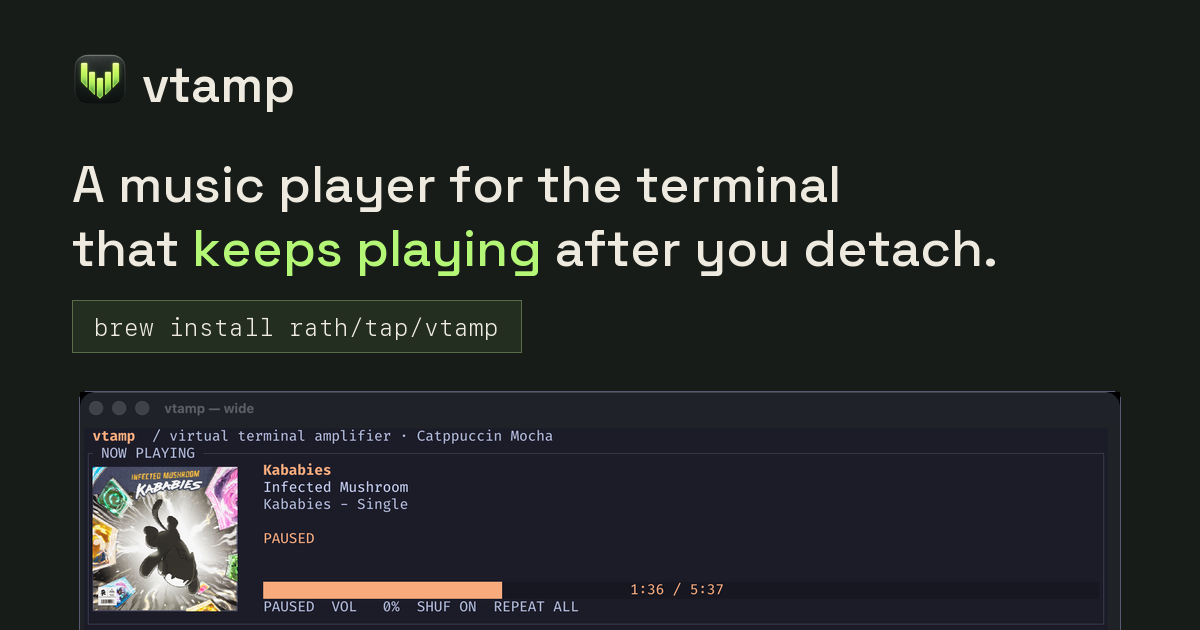
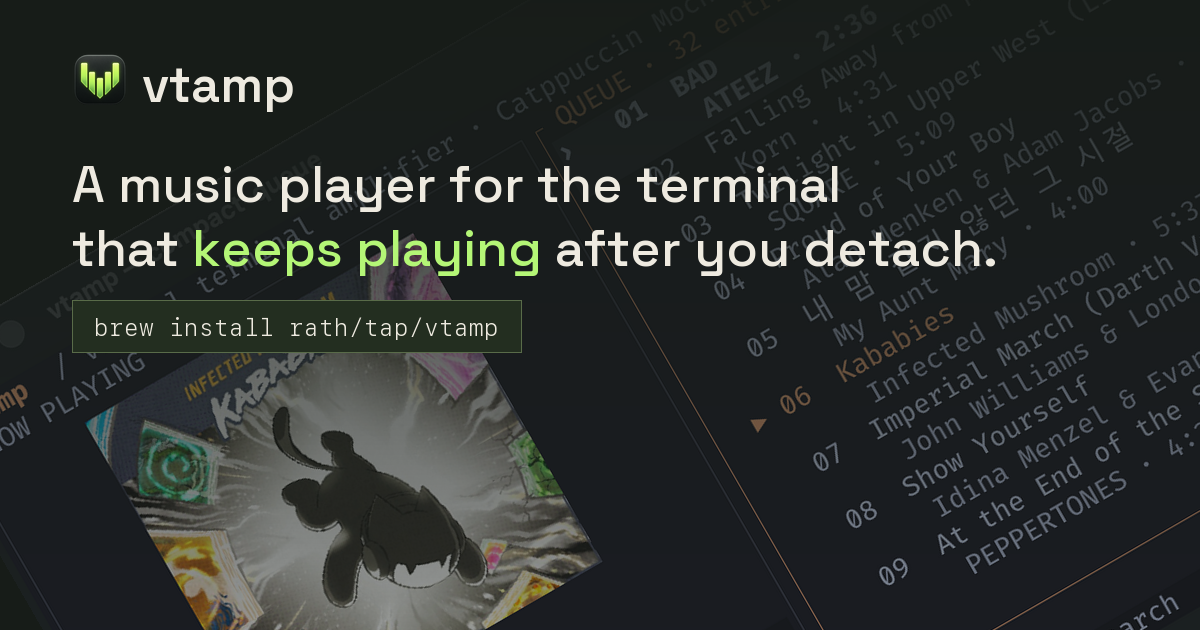
feat(site): redesign the preview cards and add a Korean one
- Lay the compact Queue capture across the card as a backdrop, tilted 30° counter-clockwise and zoomed to 140% under a top-to-bottom scrim
- Keep the wordmark, two-line headline, and Homebrew command chip in the top band
- Add site/og-ko.png with the headline set in the bundled Pretendard Medium, unpacked from WOFF2 with fontTools
- Point the Korean page's og:image and JSON-LD image at og-ko.png
- Check each page against its own card in scripts/test_site_meta.py
- Describe the card composition and build dependencies in DESIGN.md, README, and AGENTS.md

diff --git a/site/ko/index.html b/site/ko/index.html
@@ -5,8 +5,8 @@
 <meta name="description" content="vtamp는 터미널 음악 플레이어입니다. 화면을 닫아도 백그라운드 서버가 재생을 이어 가고, 로컬 음악과 라이브 라디오를 한 큐에서 재생하며, 스크립트와 에이전트를 위한 JSON CLI를 제공합니다. Rust로 만들었고 macOS를 먼저 지원합니다.">
 <title>vtamp · 화면을 닫아도 재생이 멈추지 않는 터미널 음악 플레이어</title>
 <link rel="canonical" href="https://vtamp.told.me/ko/"><link rel="alternate" hreflang="ko" href="https://vtamp.told.me/ko/"><link rel="alternate" hreflang="en" href="https://vtamp.told.me/"><link rel="alternate" hreflang="x-default" href="https://vtamp.told.me/">
-<meta property="og:type" content="website"><meta property="og:site_name" content="vtamp"><meta property="og:locale" content="ko_KR"><meta property="og:locale:alternate" content="en_US"><meta property="og:url" content="https://vtamp.told.me/ko/"><meta property="og:title" content="vtamp · 화면을 닫아도 재생이 멈추지 않는 터미널 음악 플레이어"><meta property="og:description" content="vtamp는 터미널 음악 플레이어입니다. 화면을 닫아도 백그라운드 서버가 재생을 이어 가고, 로컬 음악과 라이브 라디오를 한 큐에서 재생하며, 스크립트와 에이전트를 위한 JSON CLI를 제공합니다. Rust로 만들었고 macOS를 먼저 지원합니다."><meta property="og:image" content="https://vtamp.told.me/og.png"><meta property="og:image:type" content="image/png"><meta property="og:image:width" content="1200"><meta property="og:image:height" content="630"><meta property="og:image:alt" content="vtamp: 화면을 닫아도 재생이 멈추지 않는 터미널 음악 플레이어. Homebrew 설치 명령 아래에 앨범 아트와 현재 곡이 보이는 터미널 스크린샷."><meta name="twitter:card" content="summary_large_image">
-<script type="application/ld+json">{"@context":"https://schema.org","@type":"SoftwareApplication","name":"vtamp","url":"https://vtamp.told.me/ko/","inLanguage":"ko","description":"vtamp는 터미널 음악 플레이어입니다. 화면을 닫아도 백그라운드 서버가 재생을 이어 가고, 로컬 음악과 라이브 라디오를 한 큐에서 재생하며, 스크립트와 에이전트를 위한 JSON CLI를 제공합니다. Rust로 만들었고 macOS를 먼저 지원합니다.","applicationCategory":"MultimediaApplication","operatingSystem":"macOS","softwareVersion":"0.1.0","license":"https://github.com/rath/vtamp/blob/main/LICENSE","isAccessibleForFree":true,"offers":{"@type":"Offer","price":"0","priceCurrency":"USD"},"image":"https://vtamp.told.me/og.png","screenshot":"https://vtamp.told.me/screenshots/wide.png","downloadUrl":"https://github.com/rath/vtamp/releases/latest","installUrl":"https://vtamp.told.me/ko/#install","sameAs":["https://github.com/rath/vtamp"],"author":{"@type":"Person","name":"황장호","url":"https://xrath.com"}}</script>
+<meta property="og:type" content="website"><meta property="og:site_name" content="vtamp"><meta property="og:locale" content="ko_KR"><meta property="og:locale:alternate" content="en_US"><meta property="og:url" content="https://vtamp.told.me/ko/"><meta property="og:title" content="vtamp · 화면을 닫아도 재생이 멈추지 않는 터미널 음악 플레이어"><meta property="og:description" content="vtamp는 터미널 음악 플레이어입니다. 화면을 닫아도 백그라운드 서버가 재생을 이어 가고, 로컬 음악과 라이브 라디오를 한 큐에서 재생하며, 스크립트와 에이전트를 위한 JSON CLI를 제공합니다. Rust로 만들었고 macOS를 먼저 지원합니다."><meta property="og:image" content="https://vtamp.told.me/og-ko.png"><meta property="og:image:type" content="image/png"><meta property="og:image:width" content="1200"><meta property="og:image:height" content="630"><meta property="og:image:alt" content="vtamp: 화면을 닫아도 재생이 멈추지 않는 터미널 음악 플레이어. Homebrew 설치 명령 아래에 앨범 아트와 현재 곡이 보이는 터미널 스크린샷."><meta name="twitter:card" content="summary_large_image">
+<script type="application/ld+json">{"@context":"https://schema.org","@type":"SoftwareApplication","name":"vtamp","url":"https://vtamp.told.me/ko/","inLanguage":"ko","description":"vtamp는 터미널 음악 플레이어입니다. 화면을 닫아도 백그라운드 서버가 재생을 이어 가고, 로컬 음악과 라이브 라디오를 한 큐에서 재생하며, 스크립트와 에이전트를 위한 JSON CLI를 제공합니다. Rust로 만들었고 macOS를 먼저 지원합니다.","applicationCategory":"MultimediaApplication","operatingSystem":"macOS","softwareVersion":"0.1.0","license":"https://github.com/rath/vtamp/blob/main/LICENSE","isAccessibleForFree":true,"offers":{"@type":"Offer","price":"0","priceCurrency":"USD"},"image":"https://vtamp.told.me/og-ko.png","screenshot":"https://vtamp.told.me/screenshots/wide.png","downloadUrl":"https://github.com/rath/vtamp/releases/latest","installUrl":"https://vtamp.told.me/ko/#install","sameAs":["https://github.com/rath/vtamp"],"author":{"@type":"Person","name":"황장호","url":"https://xrath.com"}}</script>
 <link rel="icon" type="image/png" sizes="32x32" href="../favicon-32.png"><link rel="icon" type="image/png" sizes="64x64" href="../favicon-64.png"><link rel="apple-touch-icon" sizes="180x180" href="../apple-touch-icon.png"><link rel="preload" href="../fonts/Pretendard-Regular.subset.woff2" as="font" type="font/woff2" crossorigin><link rel="preload" href="../fonts/Pretendard-Medium.subset.woff2" as="font" type="font/woff2" crossorigin><link rel="stylesheet" href="../style.css">
 <script type="application/json" id="strings">{"pauseLabel":"자동 전환 멈추기","playLabel":"자동 전환 시작하기","pause":"일시정지","play":"재생","loading":"스크린샷을 아직 불러오는 중입니다. 잠시 후 다시 시도해 주세요.","unavailable":"스크린샷을 불러올 수 없습니다","unavailableReload":"스크린샷을 불러올 수 없습니다. 페이지를 새로 고쳐 주세요.","copied":"명령을 복사했습니다.","copyFallback":"직접 선택해 복사하세요: "}</script><script src="../app.js" defer></script>
 </head>

diff --git a/scripts/build-og.py b/scripts/build-og.py
@@ -1,57 +1,86 @@
 #!/usr/bin/env python3
-"""Compose the social preview card site/og.png from the wordmark, headline, and wide screenshot (Pillow, macOS SF Mono)."""
+"""Compose the social preview cards site/og.png and site/og-ko.png (Pillow, fontTools, macOS SF Mono)."""
+import io
 from pathlib import Path
 
 from PIL import Image, ImageDraw, ImageFont
 
 ROOT = Path(__file__).resolve().parents[1]
 SITE = ROOT / "site"
-GROTESK = SITE / "fonts" / "SpaceGrotesk.ttf"
+FONTS = SITE / "fonts"
 MONO = Path("/System/Library/Fonts/SFNSMono.ttf")
 WIDTH, HEIGHT, MARGIN = 1200, 630, 72
 # DESIGN.md web palette.
-BG, TEXT, GREEN = "#171c18", "#eeeae0", "#b4f676"
-CHIP, CHIP_LINE, STAGE, STAGE_LINE = "#232e20", "#596b49", "#1e1e2e", "#585b70"
-HEADLINE = [
-    [("A music player for the terminal", TEXT)],
-    [("that ", TEXT), ("keeps playing", GREEN), (" after you detach.", TEXT)],
-]
+BG, TEXT, GREEN, CHIP, CHIP_LINE = "#171c18", "#eeeae0", "#b4f676", "#232e20", "#596b49"
 COMMAND = "brew install rath/tap/vtamp"
+# The compact Queue capture tilts 30° counter-clockwise behind the copy, zoomed past the canvas.
+BACKDROP = SITE / "screenshots" / "compact-queue.png"
+TILT, ZOOM, CENTER = 30, 1.4, (840, 330)
+# Scrim alpha over the backdrop: nearly opaque behind the copy at the top, lighter toward the bottom.
+SCRIM_TOP, SCRIM_BOTTOM = 240, 112
+CARDS = {
+    "og.png": ([("A music player for the terminal", TEXT)], [("that ", TEXT), ("keeps playing", GREEN), (" after you detach.", TEXT)]),
+    "og-ko.png": ([("화면을 닫아도 ", TEXT), ("재생이 멈추지 않는", GREEN)], [("터미널 음악 플레이어.", TEXT)]),
+}
 
 
 def grotesk(size, weight):
-    font = ImageFont.truetype(str(GROTESK), size)
+    font = ImageFont.truetype(str(FONTS / "SpaceGrotesk.ttf"), size)
     font.set_variation_by_axes([weight])
     return font
 
 
-def main():
-    card = Image.new("RGB", (WIDTH, HEIGHT), BG)
+def pretendard(size):
+    # Pillow reads TrueType, not WOFF2, so unpack the bundled Medium subset in memory.
+    from fontTools.ttLib import TTFont
+
+    font = TTFont(FONTS / "Pretendard-Medium.subset.woff2")
+    font.flavor = None
+    buffer = io.BytesIO()
+    font.save(buffer)
+    buffer.seek(0)
+    return ImageFont.truetype(buffer, size)
+
+
+def backdrop():
+    card = Image.new("RGBA", (WIDTH, HEIGHT), BG)
+    shot = Image.open(BACKDROP).convert("RGBA")
+    scale = WIDTH / shot.width * ZOOM
+    shot = shot.resize((round(shot.width * scale), round(shot.height * scale)), Image.LANCZOS)
+    shot = shot.rotate(TILT, resample=Image.BICUBIC, expand=True)
+    card.alpha_composite(shot, (CENTER[0] - shot.width // 2, CENTER[1] - shot.height // 2))
+    ramp = Image.linear_gradient("L").resize((WIDTH, HEIGHT))
+    alpha = ramp.point(lambda value: round(SCRIM_TOP + (SCRIM_BOTTOM - SCRIM_TOP) * value / 255))
+    scrim = Image.new("RGBA", (WIDTH, HEIGHT), BG)
+    scrim.putalpha(alpha)
+    card.alpha_composite(scrim)
+    return card.convert("RGB")
+
+
+def compose(name, headline, font):
+    card = backdrop()
     draw = ImageDraw.Draw(card)
 
     mark = Image.open(SITE / "mark.png").convert("RGBA").resize((56, 56), Image.LANCZOS)
     card.paste(mark, (MARGIN, 52), mark)
     draw.text((MARGIN + 70, 52), "vtamp", font=grotesk(50, 600), fill=TEXT)
 
-    headline = grotesk(52, 500)
-    for row, segments in enumerate(HEADLINE):
+    for row, segments in enumerate(headline):
         x = MARGIN
         for text, color in segments:
-            draw.text((x, 150 + row * 64), text, font=headline, fill=color)
-            x += headline.getlength(text)
+            draw.text((x, 150 + row * 64), text, font=font, fill=color)
+            x += font.getlength(text)
 
     mono = ImageFont.truetype(str(MONO), 24)
     width = mono.getlength(COMMAND) + 44
     draw.rectangle((MARGIN, 300, MARGIN + width, 352), fill=CHIP, outline=CHIP_LINE)
     draw.text((MARGIN + 22, 312), COMMAND, font=mono, fill=TEXT)
+    card.save(SITE / name, optimize=True)
 
-    shot = Image.open(SITE / "screenshots" / "wide.png").convert("RGB")
-    stage_width = WIDTH - 2 * 80
-    shot = shot.resize((stage_width, round(shot.height * stage_width / shot.width)), Image.LANCZOS)
-    top = 392
-    draw.rounded_rectangle((80 - 1, top - 1, 80 + stage_width, top + shot.height), radius=8, fill=STAGE, outline=STAGE_LINE)
-    card.paste(shot, (80, top))
-    card.save(SITE / "og.png", optimize=True)
+
+def main():
+    compose("og.png", CARDS["og.png"], grotesk(52, 500))
+    compose("og-ko.png", CARDS["og-ko.png"], pretendard(52))
 
 
 if __name__ == "__main__":

diff --git a/scripts/test_site_meta.py b/scripts/test_site_meta.py
@@ -10,7 +10,8 @@ import xml.etree.ElementTree as ElementTree
 ROOT = Path(__file__).resolve().parents[1]
 SITE = ROOT / "site"
 ORIGIN = "https://vtamp.told.me/"
-PAGES = {SITE / "index.html": ORIGIN, SITE / "ko" / "index.html": ORIGIN + "ko/"}
+# page -> (its canonical URL, its language's preview card)
+PAGES = {SITE / "index.html": (ORIGIN, "og.png"), SITE / "ko" / "index.html": (ORIGIN + "ko/", "og-ko.png")}
 SITEMAP_NS = {"sm": "http://www.sitemaps.org/schemas/sitemap/0.9", "xhtml": "http://www.w3.org/1999/xhtml"}
 
 
@@ -60,7 +61,7 @@ class PageMetadataTests(unittest.TestCase):
 
     def test_each_page_declares_itself_consistently(self):
         version = crate_version()
-        for page, url in PAGES.items():
+        for page, (url, card) in PAGES.items():
             with self.subTest(page=page.relative_to(ROOT)):
                 head = self.parse(page)
                 canonical = [link["href"] for link in head.links if link.get("rel") == "canonical"]
@@ -73,8 +74,8 @@ class PageMetadataTests(unittest.TestCase):
                 self.assertEqual(head.meta["og:description"], head.meta["description"])
                 for key in ("og:title", "og:image:alt", "og:locale", "og:locale:alternate"):
                     self.assertTrue(head.meta.get(key), key)
-                self.assertEqual(head.meta["og:image"], ORIGIN + "og.png")
-                width, height = png_size(SITE / "og.png")
+                self.assertEqual(head.meta["og:image"], ORIGIN + card)
+                width, height = png_size(SITE / card)
                 self.assertEqual((width, height), (1200, 630))
                 self.assertEqual((head.meta["og:image:width"], head.meta["og:image:height"]), (str(width), str(height)))
                 self.assertEqual(len(head.json_ld), 1)
@@ -82,13 +83,14 @@ class PageMetadataTests(unittest.TestCase):
                 self.assertEqual(data["@type"], "SoftwareApplication")
                 self.assertEqual(data["url"], url)
                 self.assertEqual(data["description"], head.meta["description"])
+                self.assertEqual(data["image"], head.meta["og:image"])
                 self.assertEqual(data["softwareVersion"], version)
                 self.assertIn(f'<span class="version">v{version}</span>', page.read_text(encoding="utf-8"))
 
     def test_sitemap_and_robots_cover_both_pages(self):
         tree = ElementTree.parse(SITE / "sitemap.xml")
         urls = tree.getroot().findall("sm:url", SITEMAP_NS)
-        self.assertEqual({url.find("sm:loc", SITEMAP_NS).text for url in urls}, set(PAGES.values()))
+        self.assertEqual({url.find("sm:loc", SITEMAP_NS).text for url in urls}, {url for url, _ in PAGES.values()})
         for url in urls:
             alternates = {link.get("hreflang"): link.get("href") for link in url.findall("xhtml:link", SITEMAP_NS)}
             self.assertEqual(alternates, {"en": ORIGIN, "ko": ORIGIN + "ko/", "x-default": ORIGIN})

diff --git a/DESIGN.md b/DESIGN.md
@@ -61,7 +61,7 @@ Preserve the help dialog's line count when documenting the alternate play action
 
 The website is a Persuade surface, but its copy stays literal: say what vtamp is and what sets it apart (a music player for the terminal whose playback server keeps playing after the interface detaches), show the Homebrew command with a copy button, label the primary action “Install”, and avoid slogans or metaphors. Follow the headline with a full-width gallery of the real terminal interface. Follow with the detachable lifecycle, executable CLI examples, and installation instructions: the Homebrew command for Apple Silicon first, then the source build as the alternative for Intel Macs or machines without Homebrew. The headline and introduction share a row above the gallery. Show Wide, Compact Library, and Compact Queue in a fixed image area without cropping; provide full-resolution links. Named layout controls and a pause button accompany a six-second rotation. Hover, keyboard focus, and offscreen state pause rotation; reduced motion disables automatic rotation and fading. Without JavaScript, the first screenshot remains visible.
 
-The Korean page mirrors the English page section for section with the same ids and shares `style.css` and `app.js`. Each page carries its own language: slide captions in `data-caption`, status and copy-feedback strings in the `#strings` JSON block, and `hreflang` alternates in the head. The masthead links between the two languages; on phones it keeps only the install link and the language switch. Each page declares its canonical URL, Open Graph and Twitter card metadata pointing at the shared preview card, and a SoftwareApplication JSON-LD block whose version matches the masthead badge and `Cargo.toml`; `site/sitemap.xml` lists both pages with their language alternates and `site/robots.txt` points at it. Korean copy stays as literal as the English and keeps product terms (Library, Queue, tmux, Now Playing) and commands untranslated.
+The Korean page mirrors the English page section for section with the same ids and shares `style.css` and `app.js`. Each page carries its own language: slide captions in `data-caption`, status and copy-feedback strings in the `#strings` JSON block, and `hreflang` alternates in the head. The masthead links between the two languages; on phones it keeps only the install link and the language switch. Each page declares its canonical URL, Open Graph and Twitter card metadata pointing at its language's preview card, and a SoftwareApplication JSON-LD block whose version matches the masthead badge and `Cargo.toml`; `site/sitemap.xml` lists both pages with their language alternates and `site/robots.txt` points at it. Korean copy stays as literal as the English and keeps product terms (Library, Queue, tmux, Now Playing) and commands untranslated.
 
 The lifecycle section also introduces the optional tmux status-bar plugin with a labeled text example, a copyable status format, and a link to installation instructions. The example places music after the pane title without a clock or date; on narrow screens, the title truncates while playback times remain visible.
 
@@ -98,7 +98,7 @@ The approved V-meter app icon has five lime bars forming a V silhouette on a cha
 
 The V-meter source is `assets/icon.png`. Use derived PNGs for the website header/footer mark (`site/mark.png`), favicons (`site/favicon-32.png`, `site/favicon-64.png`), and touch icon (`site/apple-touch-icon.png`); use `assets/vtamp.icns` for macOS app identity. Preserve the approved artwork across these sizes. The brand icon identifies vtamp and never replaces album covers.
 
-The social preview card `site/og.png` (1200 × 630, composed by `scripts/build-og.py`) places the mark and wordmark, the two-line headline with “keeps playing” in phosphor green, the Homebrew command chip, and the top of the wide screenshot on the charcoal background. Both language pages share it; rebuild it whenever the wide capture or the headline changes.
+The social preview cards `site/og.png` and `site/og-ko.png` (1200 × 630, composed by `scripts/build-og.py`) lay the compact Queue capture across the whole card as a backdrop, tilted 30° counter-clockwise and zoomed to 140% of the card width so the album art lands bottom-left and the queue runs off the right edge. A charcoal scrim fades from nearly opaque at the top to translucent at the bottom, and the copy sits in the top band: mark and wordmark, a two-line headline with “keeps playing” (Korean: “재생이 멈추지 않는”) in phosphor green, and the Homebrew command chip. The English card sets the headline in Space Grotesk, the Korean card in the bundled Pretendard Medium. Rebuild both whenever that capture or a headline changes.
 
 The theme picker opens with `t`, previews with arrows or j/k, saves with Enter, and restores the opening theme on Esc/q. It scrolls at small sizes. The theme picker stays within the browser area, keeping the player and album art visible throughout preview. It uses the full browser height on very small panes and scrolls its choices. Help and import overlays hide pixel art when they overlap it and restore it on close. Bottom search/folder prompts keep the cover visible. `/` starts a blank search draft; Enter applies it (empty clears the filter), while Esc keeps the current filter. Outside the prompt, Esc clears an applied filter before it detaches. Text fields show the real terminal cursor at the caret so input methods (for example, Korean) compose inside the field; Ctrl-U clears the field. Theme selection is client-local; saved preferences apply to future attachments.
 

diff --git a/README.md b/README.md
@@ -779,7 +779,7 @@ or `.github/workflows/pages.yml` reach `main`. It can also be run manually with
 build step.
 
 Both pages carry canonical, Open Graph, and JSON-LD metadata for the
-`https://vtamp.told.me/` origin and share the preview card `site/og.png`;
+`https://vtamp.told.me/` origin with a preview card per language (`site/og.png`, `site/og-ko.png`);
 `site/sitemap.xml` and `site/robots.txt` list them for crawlers. On a release,
 update the masthead version badge and the JSON-LD `softwareVersion` in both
 pages; `scripts/test_site_meta.py` compares them with `Cargo.toml`.
@@ -817,7 +817,7 @@ python3 scripts/capture-site.py --output /tmp/vtamp-screenshots
 
 An existing `VTAMP_HOME` selects the source instance; the script always uses a separate home for its copy. Missing tools, missing artwork, graphics-detection failures, and capture errors leave the existing image set in place. Temporary servers and windows are cleaned up on success, errors, Ctrl-C, and SIGTERM. A graphics-detection failure saves diagnostics from the isolated window under `/tmp/vtamp-capture-failed-*`; remove that directory when finished investigating. It may contain song titles and local paths.
 
-Review the resulting images before committing: screenshots show the selected library's actual song titles and album covers. Music files, source artwork, and databases are never copied into the site. The checked-in captures use the maintainer's selected library; depicted album artwork belongs to its respective owners and is not covered by vtamp's MIT license. After replacing the captures, run `python3 scripts/build-og.py` to recompose the social preview card `site/og.png` from the wide capture.
+Review the resulting images before committing: screenshots show the selected library's actual song titles and album covers. Music files, source artwork, and databases are never copied into the site. The checked-in captures use the maintainer's selected library; depicted album artwork belongs to its respective owners and is not covered by vtamp's MIT license. After replacing the captures, run `python3 scripts/build-og.py` to recompose the social preview cards `site/og.png` and `site/og-ko.png` from the compact Queue capture (needs Pillow and fontTools).
 
 Capture-script checks (no GUI or personal music required):
 

diff --git a/AGENTS.md b/AGENTS.md
@@ -184,8 +184,8 @@ The documents above hold the full contracts; these are the most common regressio
   `python3 scripts/capture-site.py --output /tmp/vtamp-screenshots`, then publish
   without `--output`. Keep Training Montage by Vince DiCola as the selected track
   unless asked otherwise. Never substitute text captures or mockups, and inspect
-  every PNG before committing. After new captures, rebuild the social preview
-  card with `python3 scripts/build-og.py`.
+  every PNG before committing. After new captures, rebuild both social preview
+  cards with `python3 scripts/build-og.py`.
 
 ## Git and delivery
 
